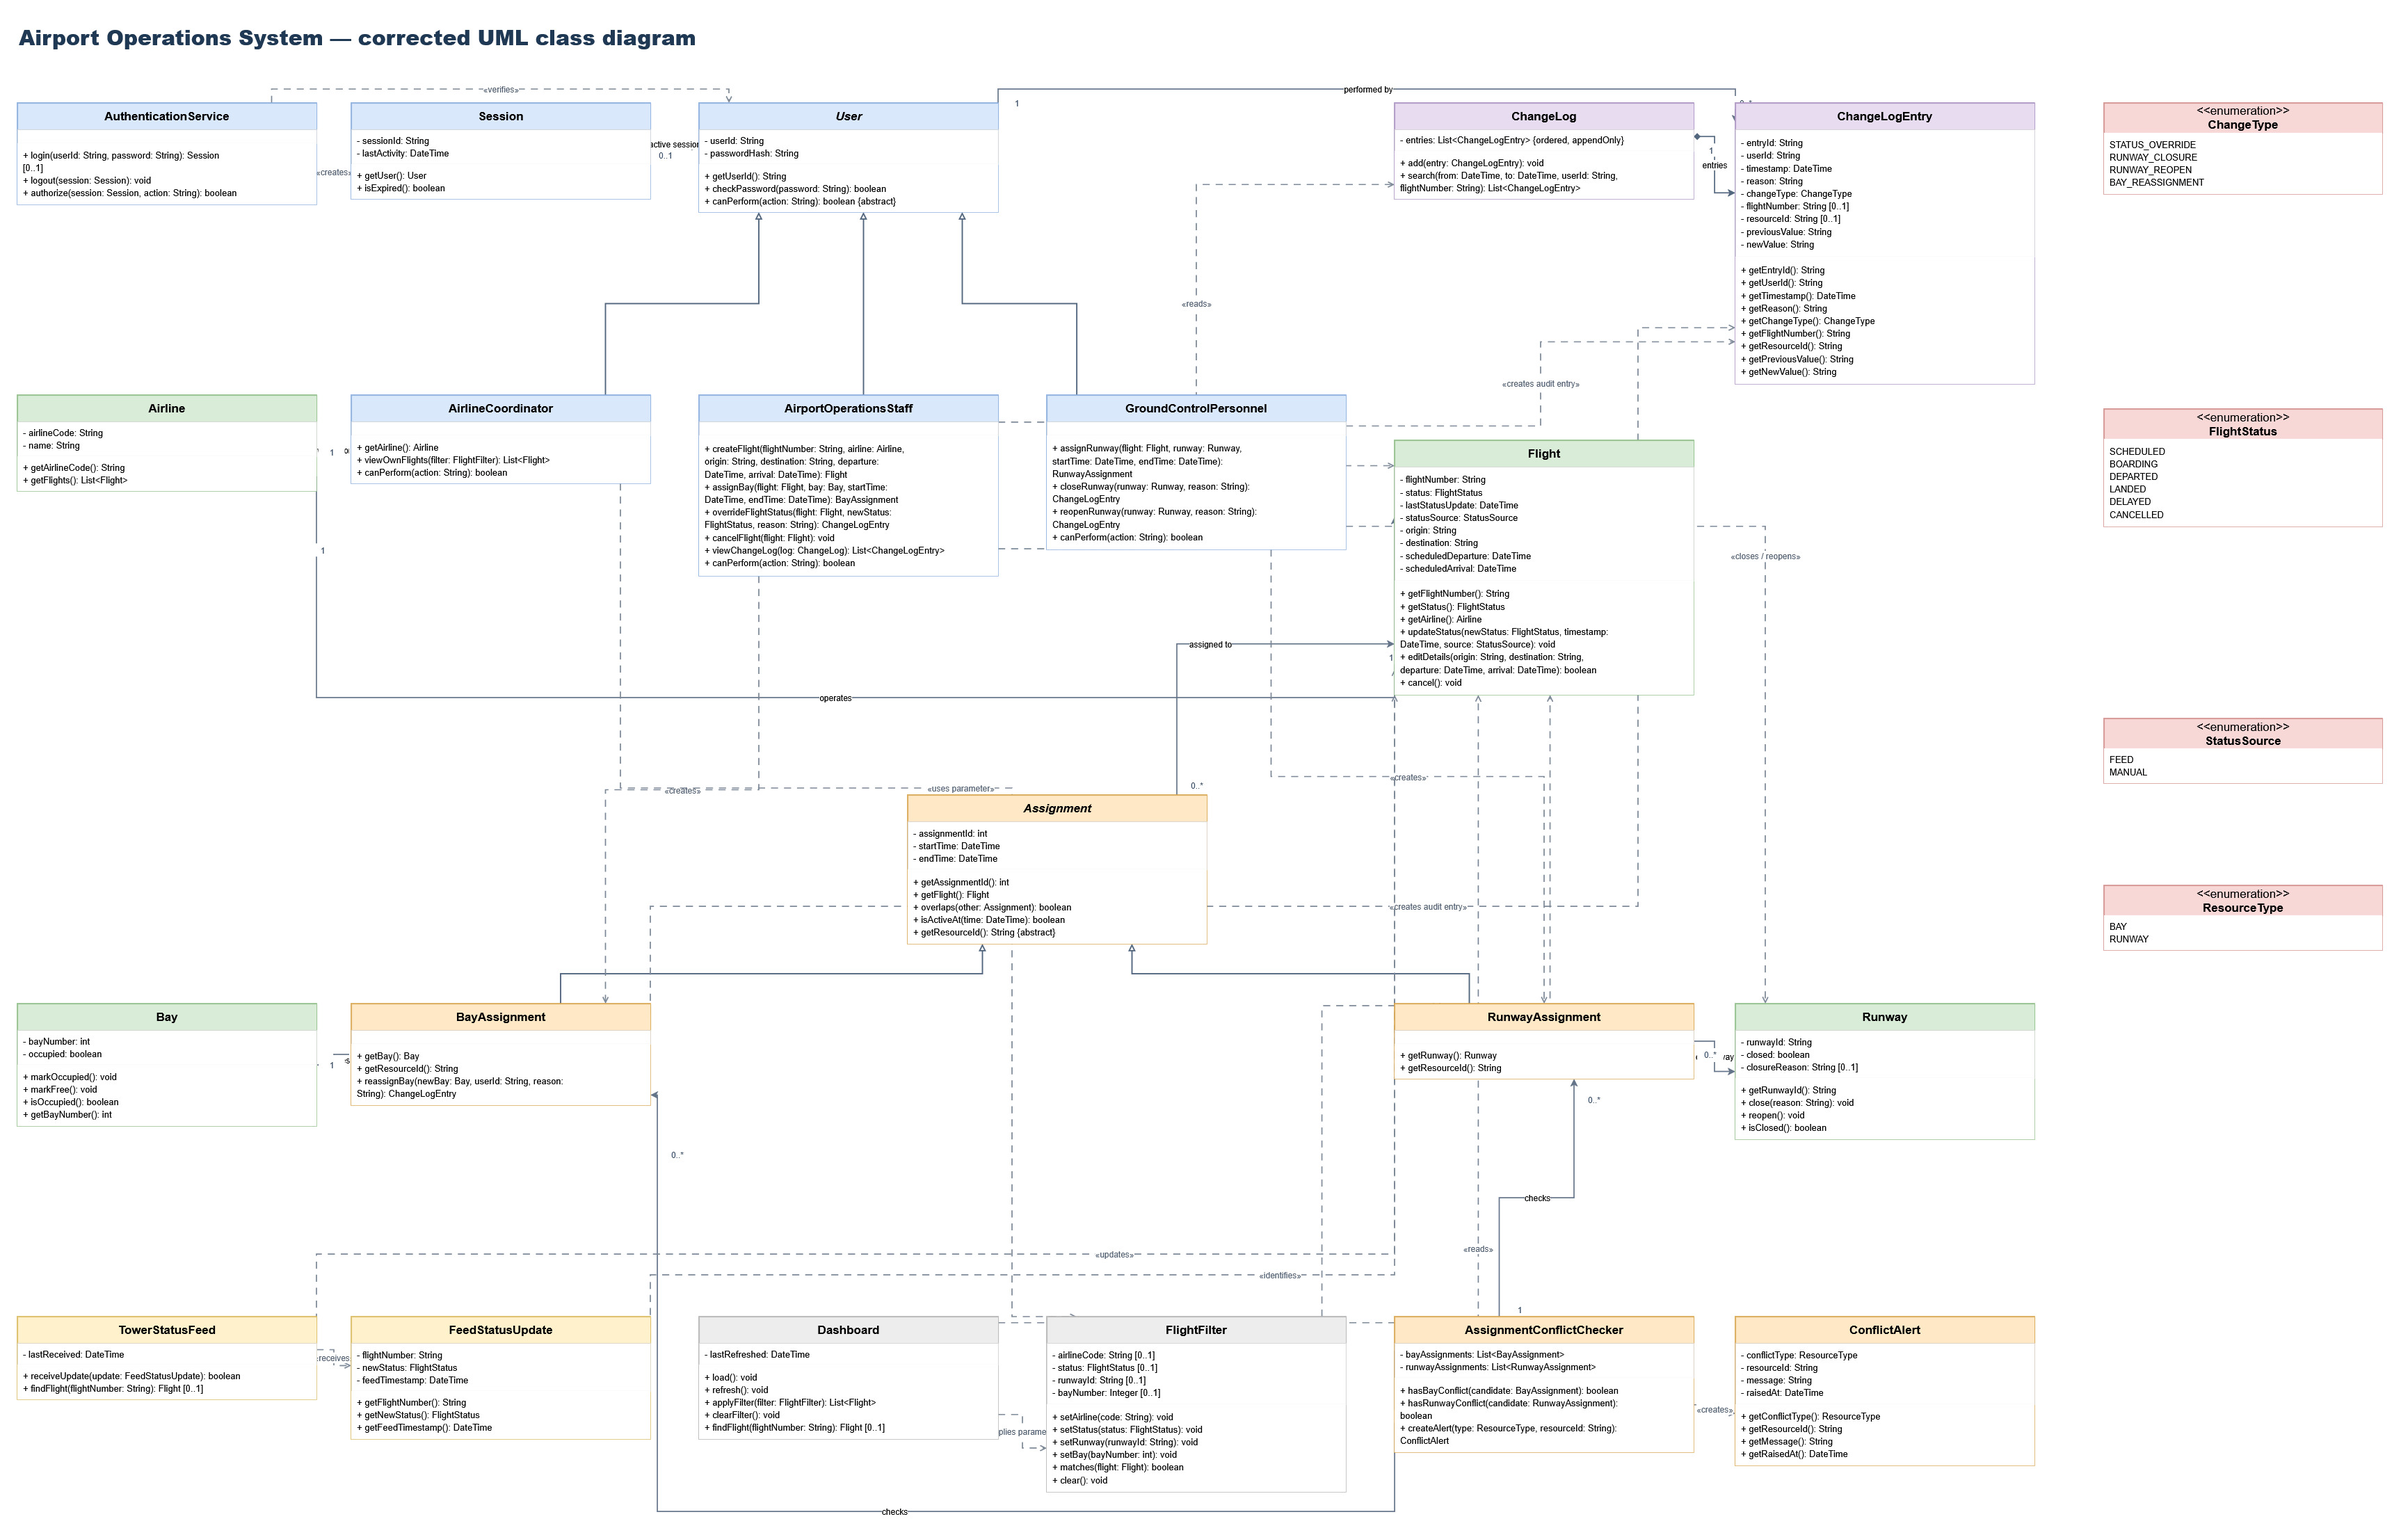
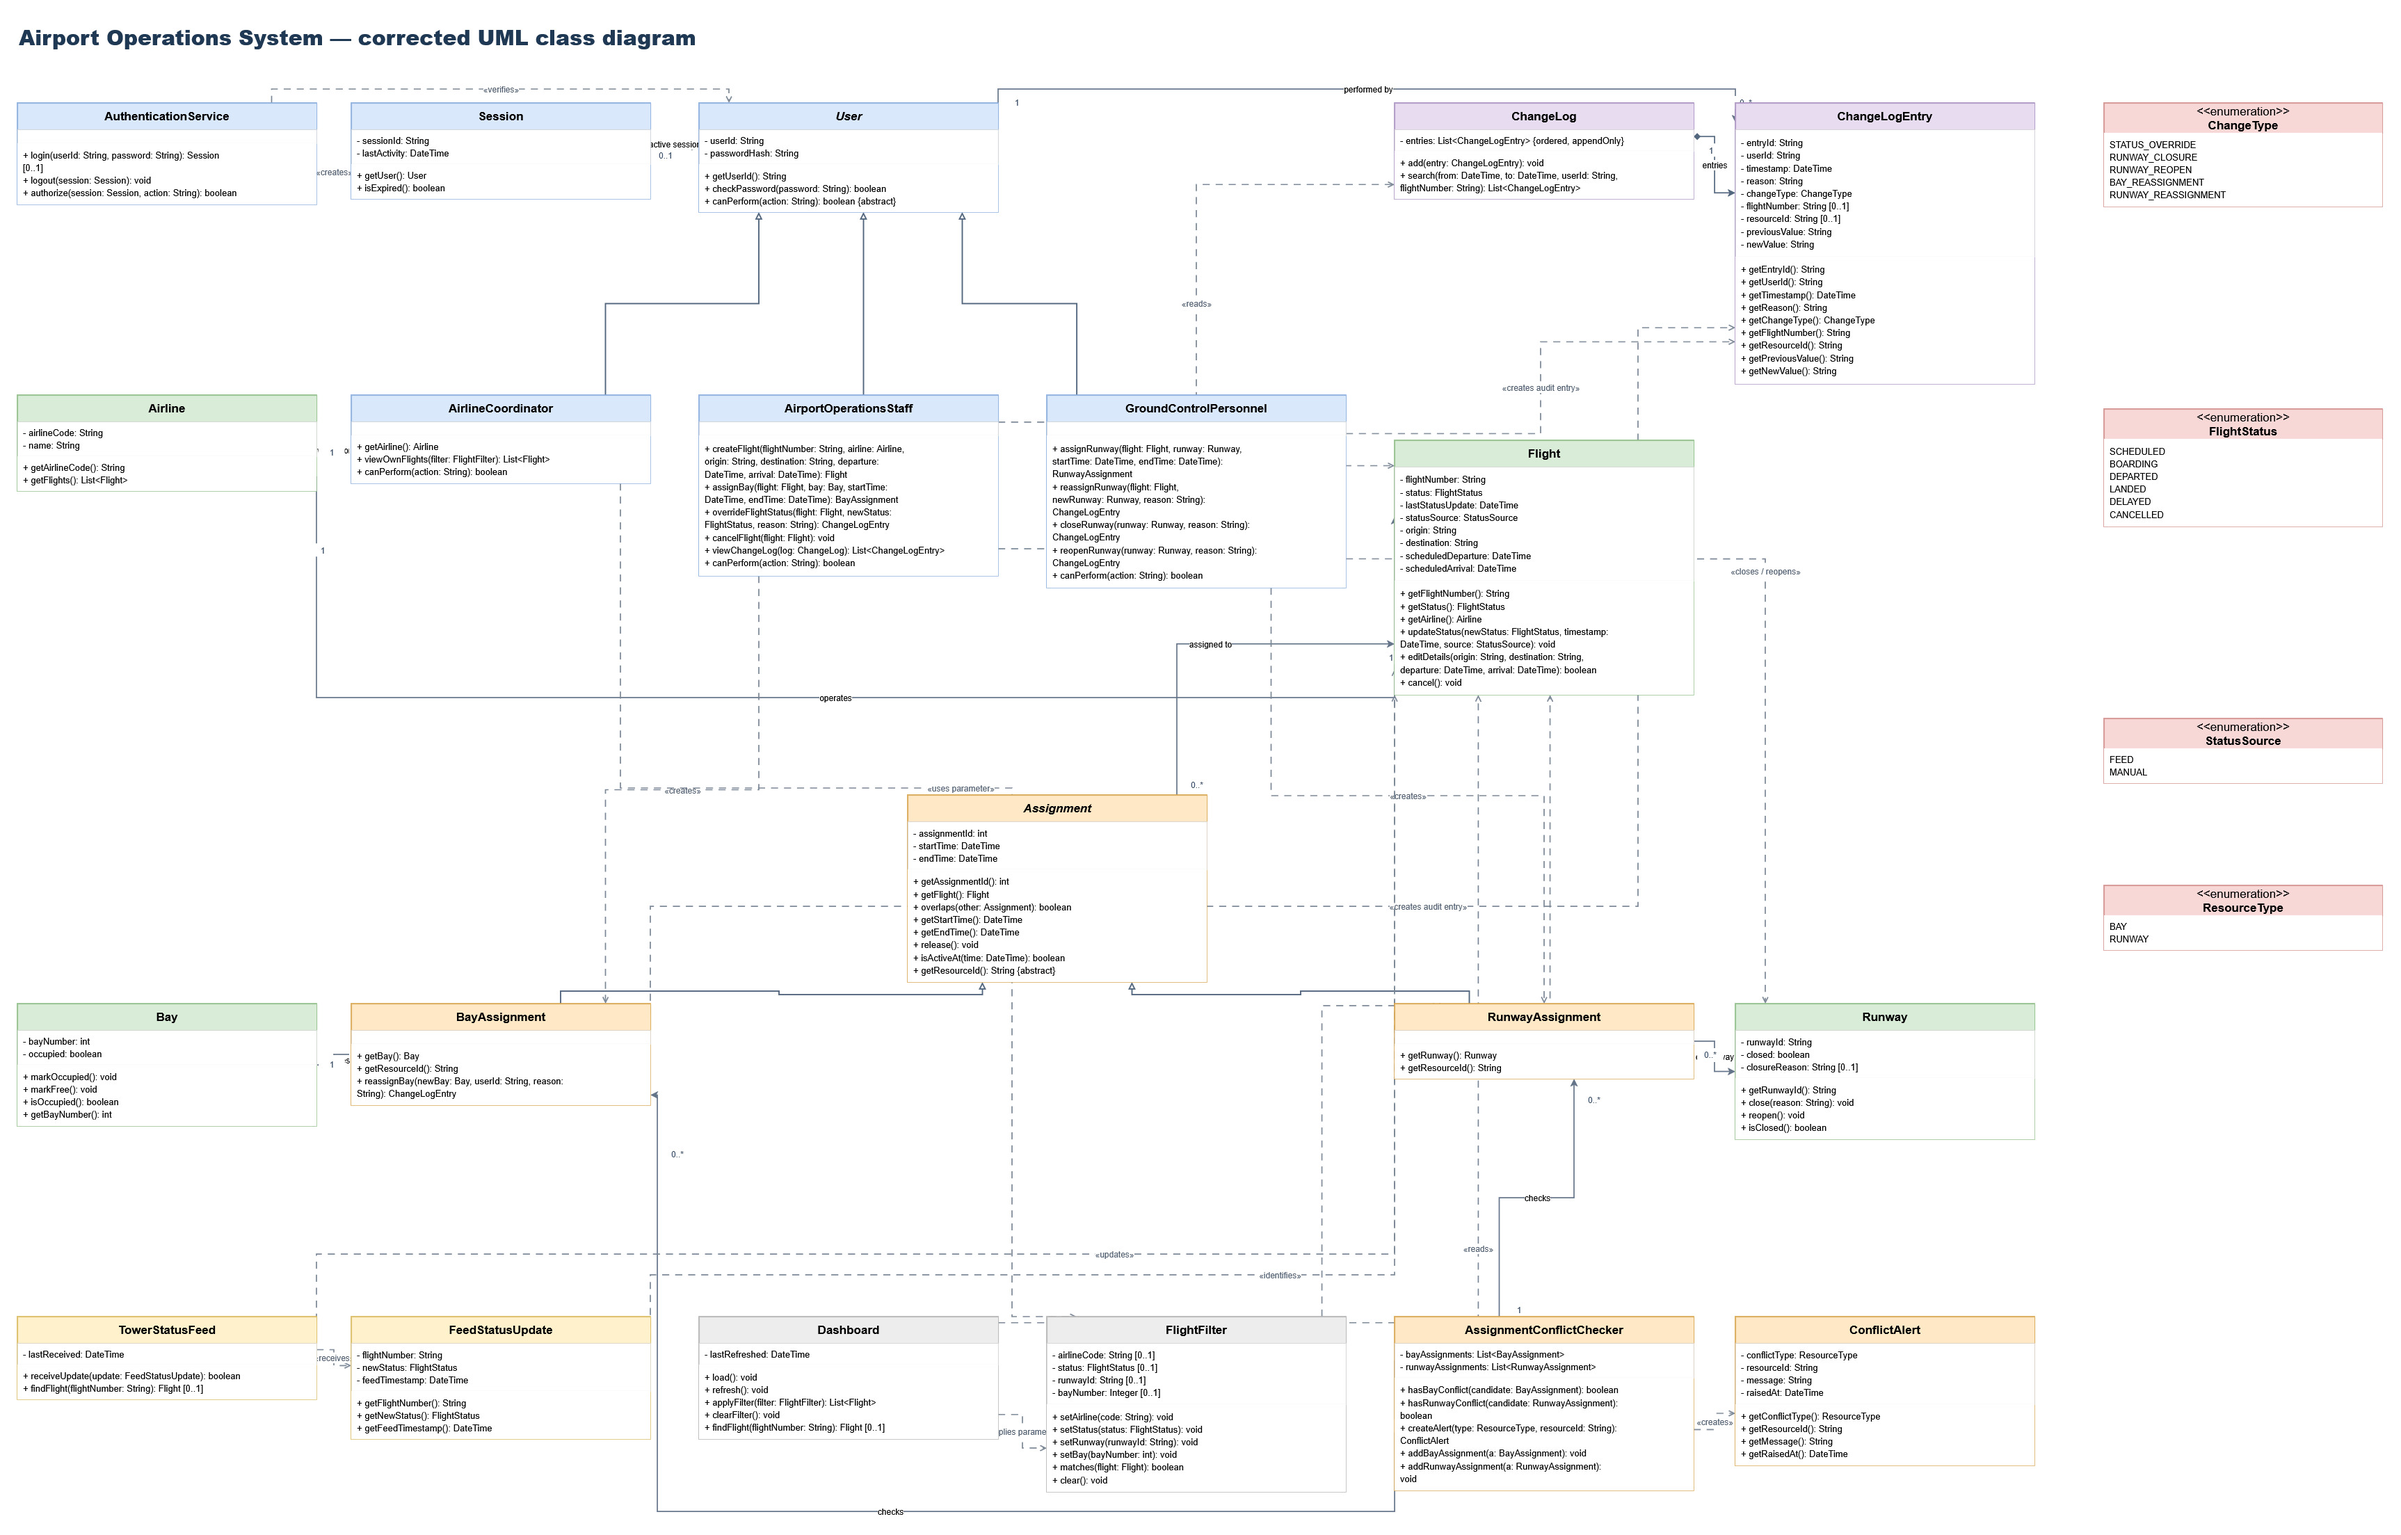
Added Lab 6 Sequence diagrams

diff --git a/Project/Behavioral_Modeling/Integration_Notes.md b/Project/Behavioral_Modeling/Integration_Notes.md
@@ -1,0 +1,25 @@
+## Lab 6 – Class Model Updates from Sequence Diagram Modeling
+
+1. **Persisting confirmed assignments:** Added `addRunwayAssignment(a:
+   RunwayAssignment): void` and `addBayAssignment(a: BayAssignment): void` to
+   `AssignmentConflictChecker`, which already holds the lists of existing
+   assignments. A confirmed assignment is now stored before confirmation is
+   shown (NFR-02, NFR-12). Two separate operations keep bay and runway logic
+   independent (NFR-11). Used in UC-01, UC-04 and UC-11.
+
+2. **Runway reassignment operation:** Added `reassignRunway(flight: Flight,
+   newRunway: Runway, reason: String): ChangeLogEntry` to
+   `GroundControlPersonnel`. This is the entry point for UC-04 and supports
+   FR-04 and FR-14. It returns a `ChangeLogEntry`, like `closeRunway`,
+   `reopenRunway` and `BayAssignment.reassignBay`.
+
+3. **Runway reassignment change type:** Added `RUNWAY_REASSIGNMENT` to the
+   `ChangeType` enumeration. The enumeration previously had no value for a
+   runway reassignment, although FR-04, FR-14 and R-04 require it to be logged.
+
+4. **Assignment time window and release:** Added `getStartTime(): DateTime`,
+   `getEndTime(): DateTime` and `release(): void` to the abstract `Assignment`
+   class. UC-04 reads the old assignment's time window to check the new runway,
+   then releases the old assignment. The operations sit in the parent class so
+   that `BayAssignment` and `RunwayAssignment` share them, consistent with the
+   Lab 5 decision to generalize assignments.

diff --git a/Project/Behavioral_Modeling/Selected_Use_Cases.md b/Project/Behavioral_Modeling/Selected_Use_Cases.md
@@ -1,0 +1,7 @@
+# Selected Use Cases
+
+| Use Case ID | Use Case Name | Primary Actor | Purpose | Reason for Selection |
+|---|---|---|---|---|
+| UC-01 | Assign Runway | Ground Control Personnel | Ground control assigns an available runway to a departing or arriving flight for a given time window. | Runway assignment is FlightDeck's core safety-critical function (FR-01, FR-02, FR-03, FR-19; S-01, S-03). It includes the runway conflict check (UC-02) and extends to the conflict alert (UC-03). |
+| UC-04 | Reassign Runway | Ground Control Personnel | Ground control moves an already-assigned flight to a different runway (e.g., after a weather closure) and records the reason for the change. | Reassignment after a closure is FlightDeck's main disruption-handling scenario. It combines conflict checking with change logging (FR-02, FR-04, FR-14, FR-19; S-01). It includes UC-02 and UC-15. |
+| UC-11 | Assign Bay | Airport Operations Staff | Staff assign an available parking bay to an arriving aircraft for a given time window. | Bay allocation is a core function of FlightDeck. It includes the bay conflict check (UC-12) and extends to the conflict alert (UC-13), so it has real interaction between objects (FR-11, FR-12, FR-15, NFR-12; S-01, S-03). |
